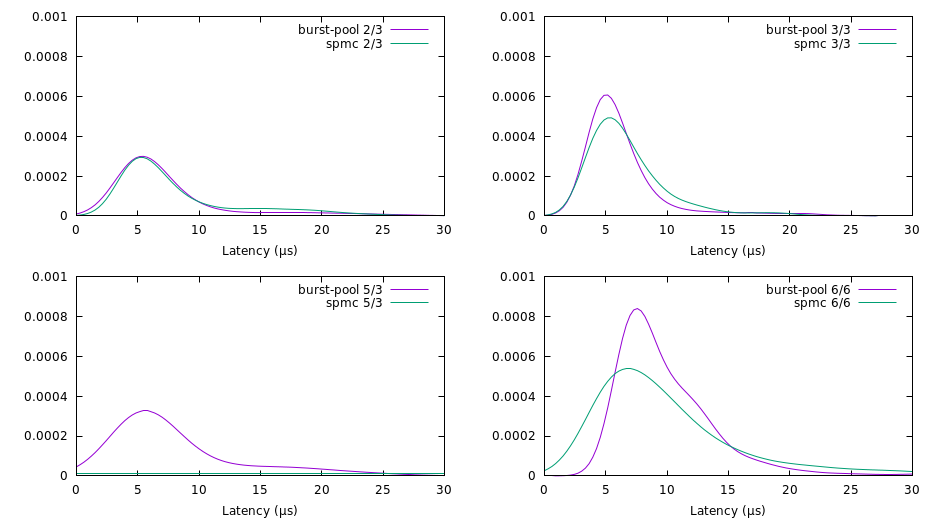
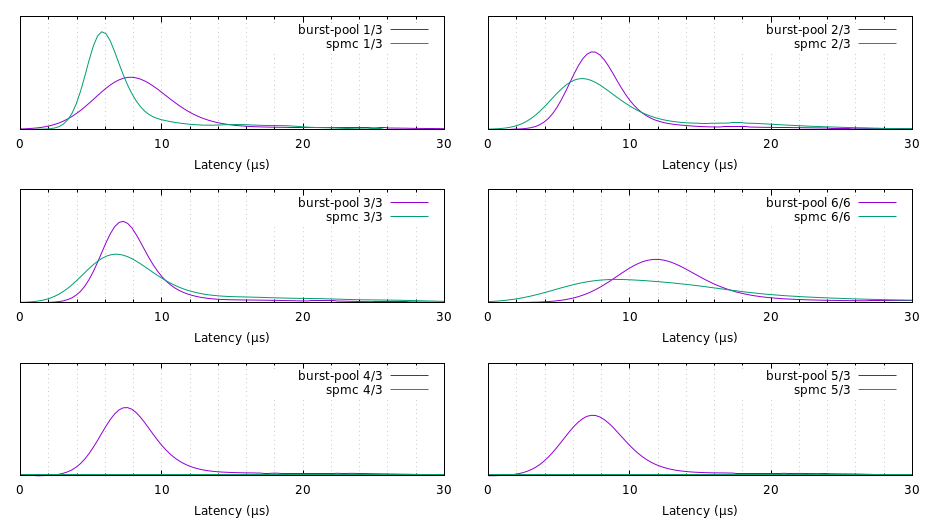
bench: Add two more plots

diff --git a/benches/settings.rs b/benches/settings.rs
@@ -10,26 +10,38 @@ pub struct BenchSpec {
 pub const BENCH_SPECS: &[BenchSpec] = &[
     BenchSpec {
         num_receivers: 3,
+        num_msgs: 1,
+        iters: 1000,
+        wait_ms: 200,
+    },
+    BenchSpec {
+        num_receivers: 3,
         num_msgs: 2,
-        iters: 500,
-        wait_ms: 50,
+        iters: 1000,
+        wait_ms: 200,
     },
     BenchSpec {
         num_receivers: 3,
         num_msgs: 3,
-        iters: 500,
-        wait_ms: 50,
-    },
-    BenchSpec {
-        num_receivers: 3,
-        num_msgs: 5,
-        iters: 500,
-        wait_ms: 50,
+        iters: 1000,
+        wait_ms: 200,
     },
     BenchSpec {
         num_receivers: 6,
         num_msgs: 6,
-        iters: 500,
-        wait_ms: 50,
+        iters: 1000,
+        wait_ms: 200,
+    },
+    BenchSpec {
+        num_receivers: 3,
+        num_msgs: 4,
+        iters: 1000,
+        wait_ms: 200,
+    },
+    BenchSpec {
+        num_receivers: 3,
+        num_msgs: 5,
+        iters: 1000,
+        wait_ms: 200,
     },
 ];

diff --git a/benches/burst_chan.rs b/benches/burst_chan.rs
@@ -24,7 +24,8 @@ fn bench(spec: &BenchSpec) {
         let mut receiver = sender.mk_receiver();
         // let gtimes = gtimes.clone();
         let mut ltimes = Vec::with_capacity(spec.iters);
-        let gaussian_weight = (spec.iters as f64).recip();
+        let lines = spec.iters * ::std::cmp::min(spec.num_msgs, spec.num_receivers);
+        let gaussian_weight = (lines as f64 ).recip();
         threads.push(thread::spawn(move || loop {
             match receiver.recv() {
                 Ok(x) => {

diff --git a/benches/spmc.rs b/benches/spmc.rs
@@ -24,7 +24,8 @@ fn bench(spec: &BenchSpec) {
         let receiver: spmc::Receiver<Instant> = receiver.clone();
         // let gtimes = gtimes.clone();
         let mut ltimes = Vec::with_capacity(spec.iters);
-        let gaussian_weight = (spec.iters as f64).recip();
+        let lines = spec.iters * spec.num_msgs;
+        let gaussian_weight = (lines as f64).recip();
         threads.push(thread::spawn(move|| loop {
             match receiver.recv() {
                 Ok(x) => {
